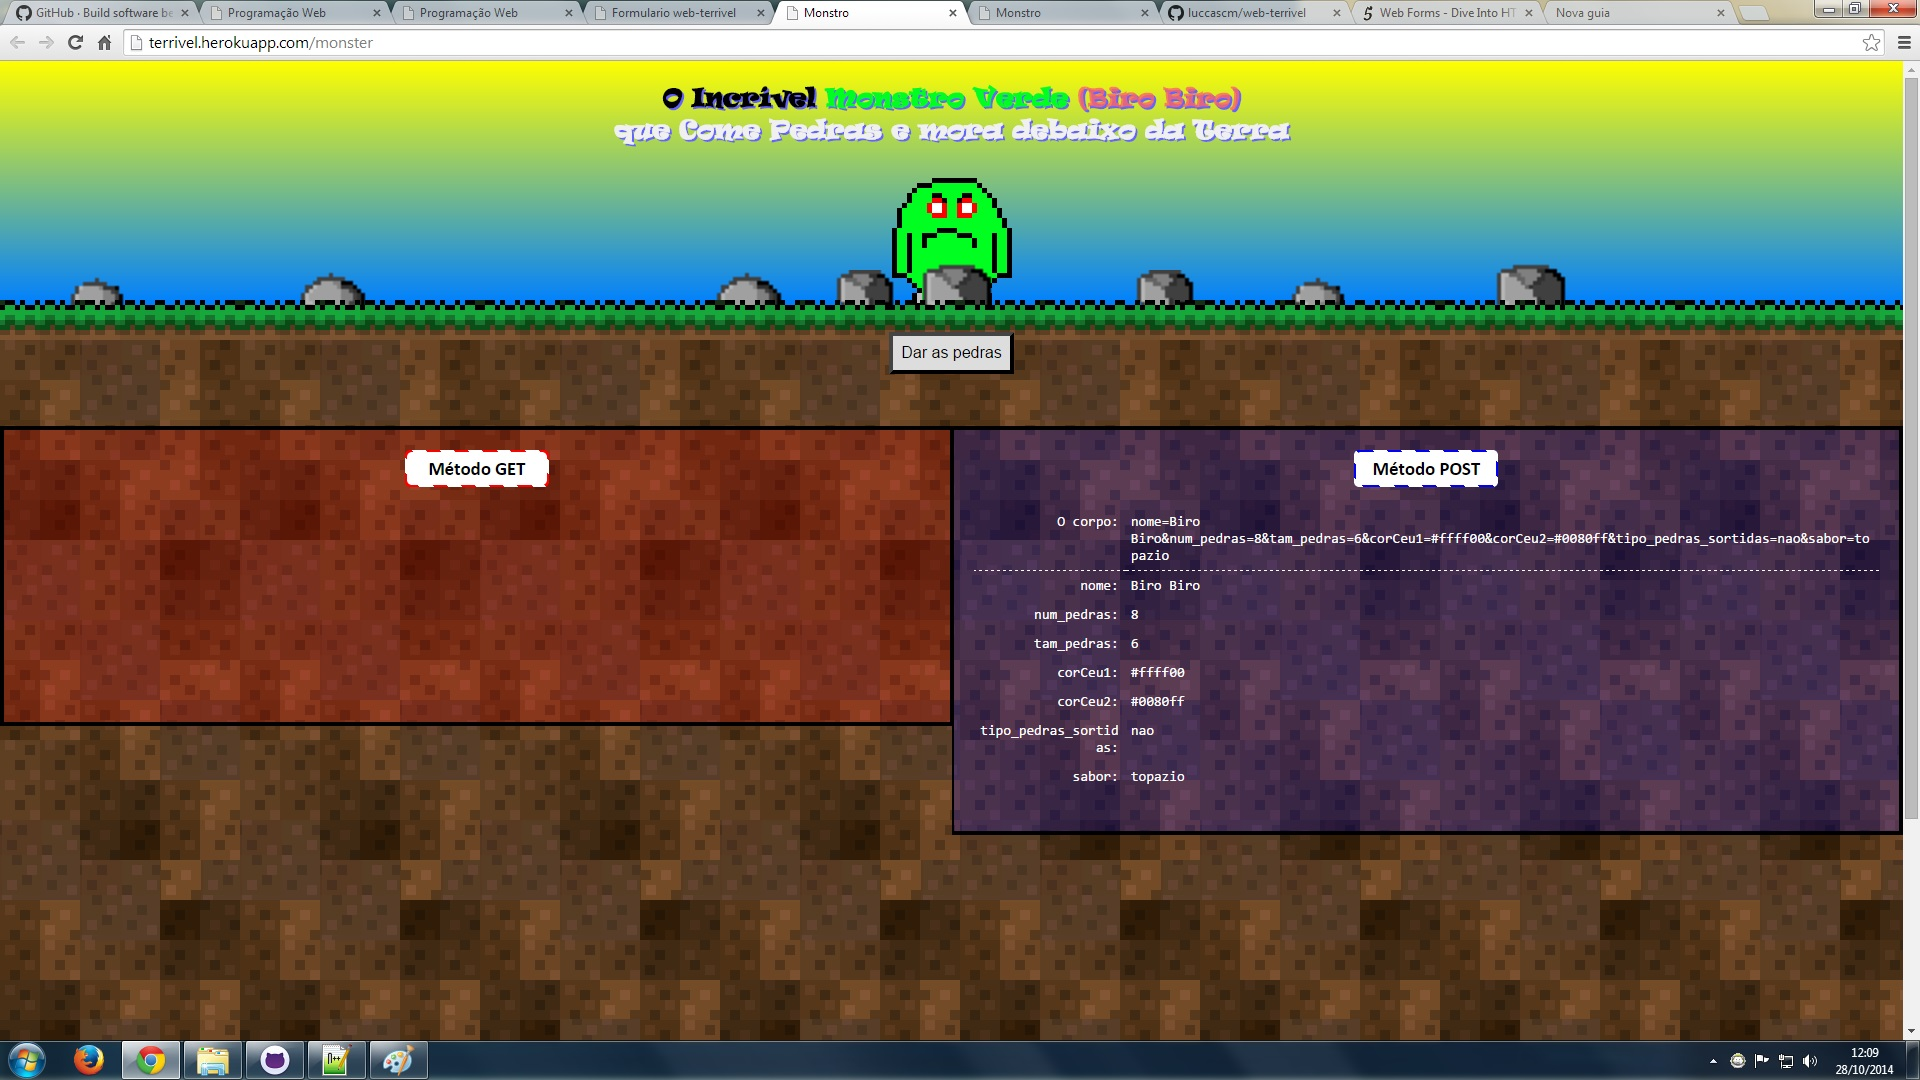
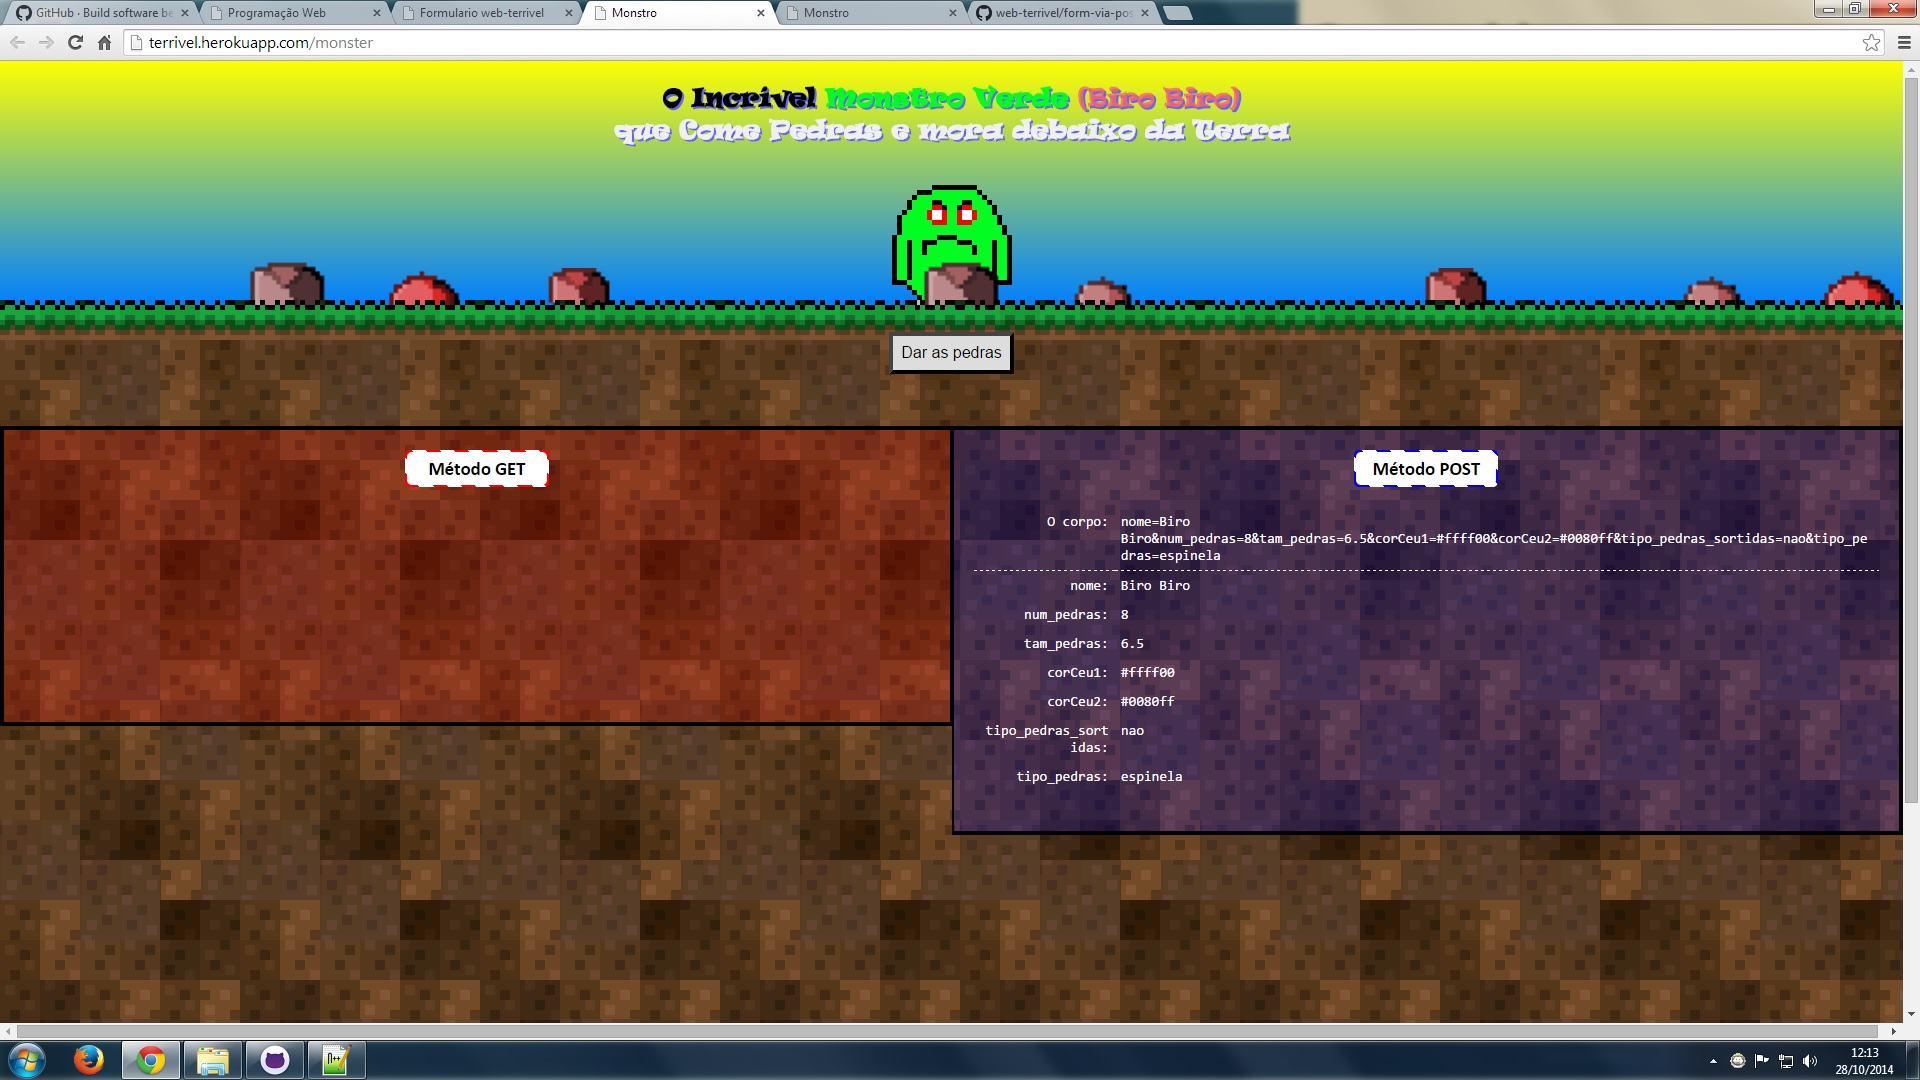
corrigindo input tipo pedras

diff --git a/index.html b/index.html
@@ -72,7 +72,7 @@
 				<label for="tipo_pedras">Tipo pedras:</label>
 			</span>
 			<span class="form-coluna inputs">
-				<select name="sabor" id="sabor" multiple>
+				<select name="tipo_pedras" id="tipo_pedras" multiple>
 					<option value="marroada">Marroada</option>
 					<option value="ametista">Ametista</option>
 					<option value="topazio">Topázio</option>
@@ -144,7 +144,7 @@
 				<label for="tipo_pedras">Tipo pedras:</label>
 			</span>
 			<span class="form-coluna inputs">
-				<select name="sabor" id="sabor" multiple>
+				<select name="tipo_pedras" id="tipo_pedras" multiple>
 					<option value="marroada">Marroada</option>
 					<option value="ametista">Ametista</option>
 					<option value="topazio">Topázio</option>
